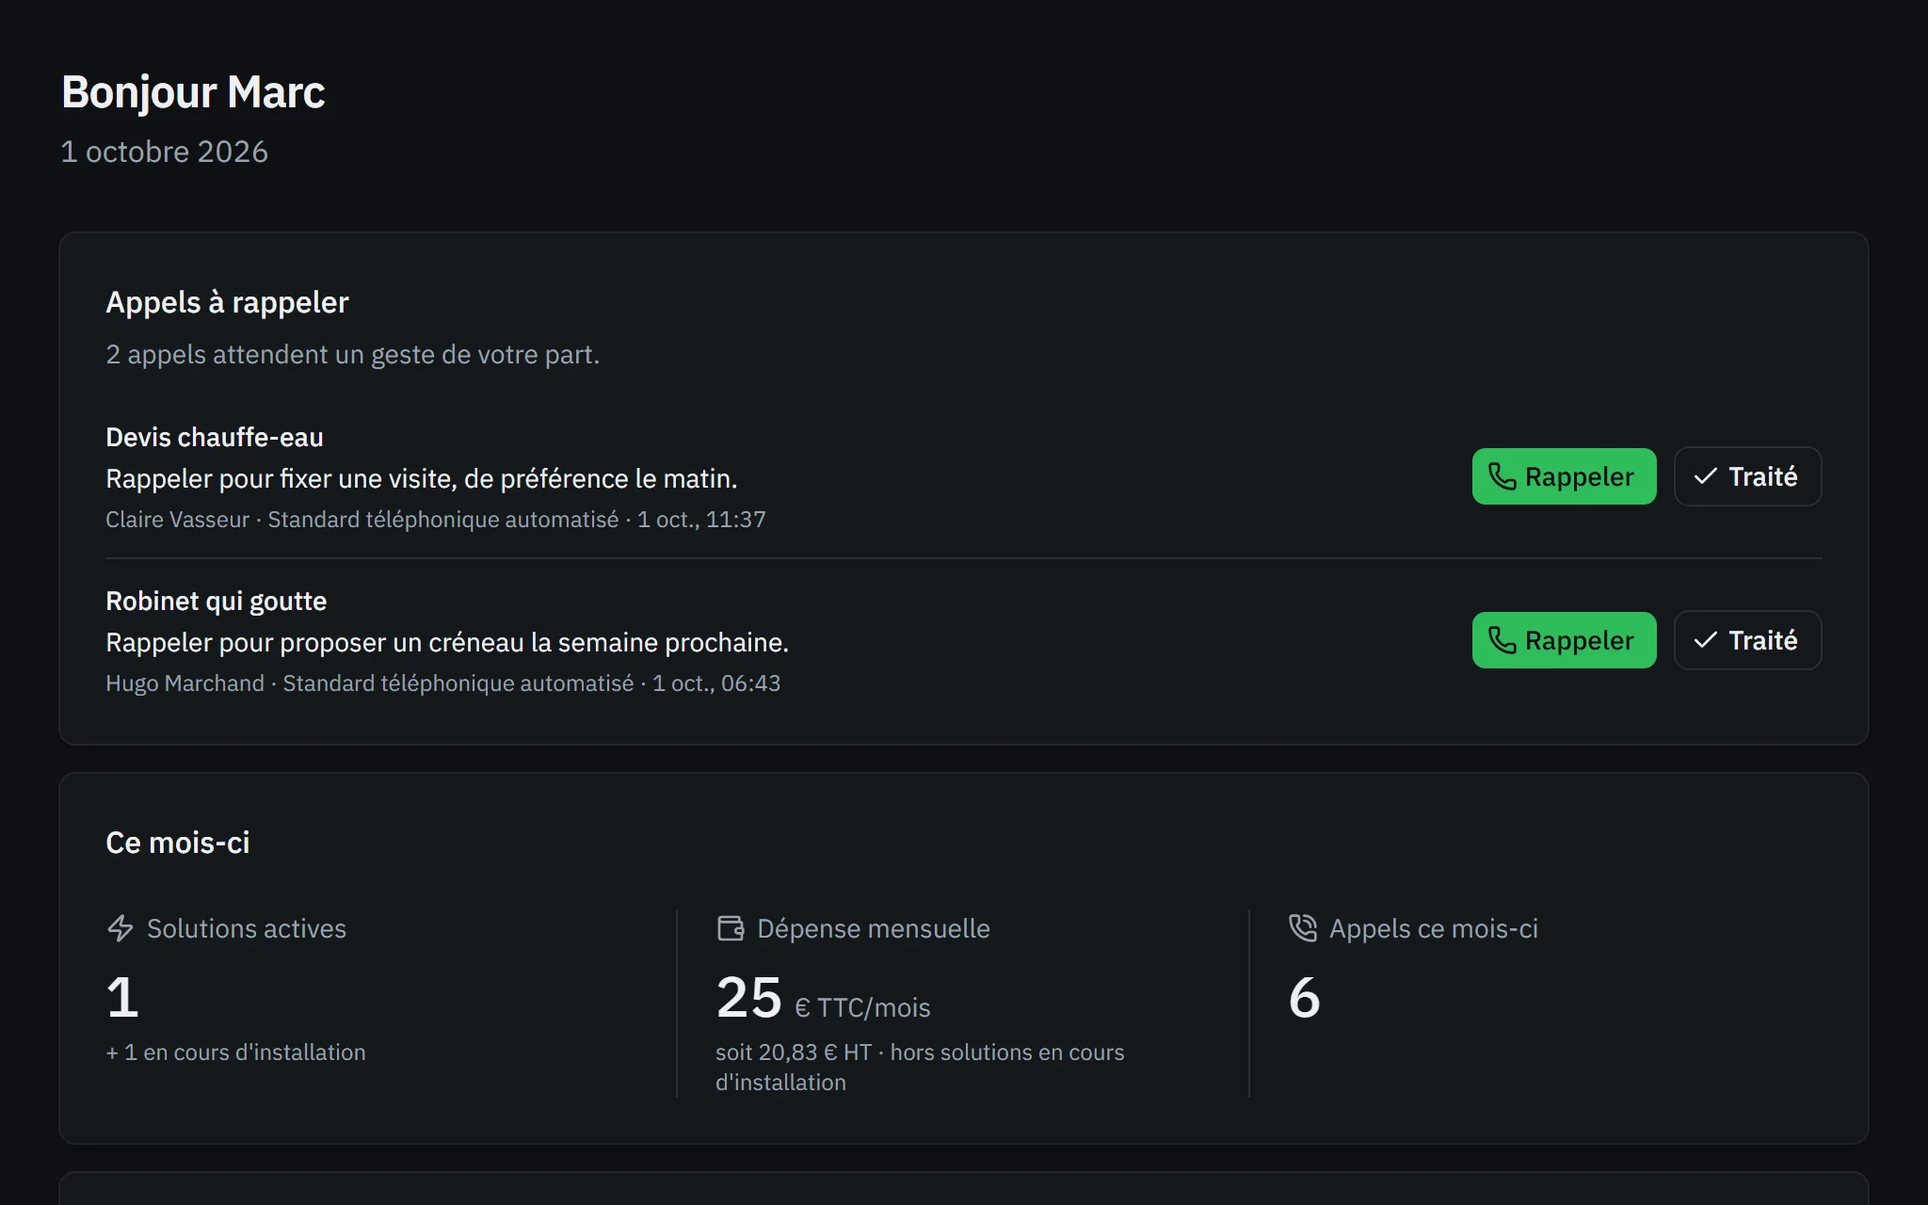
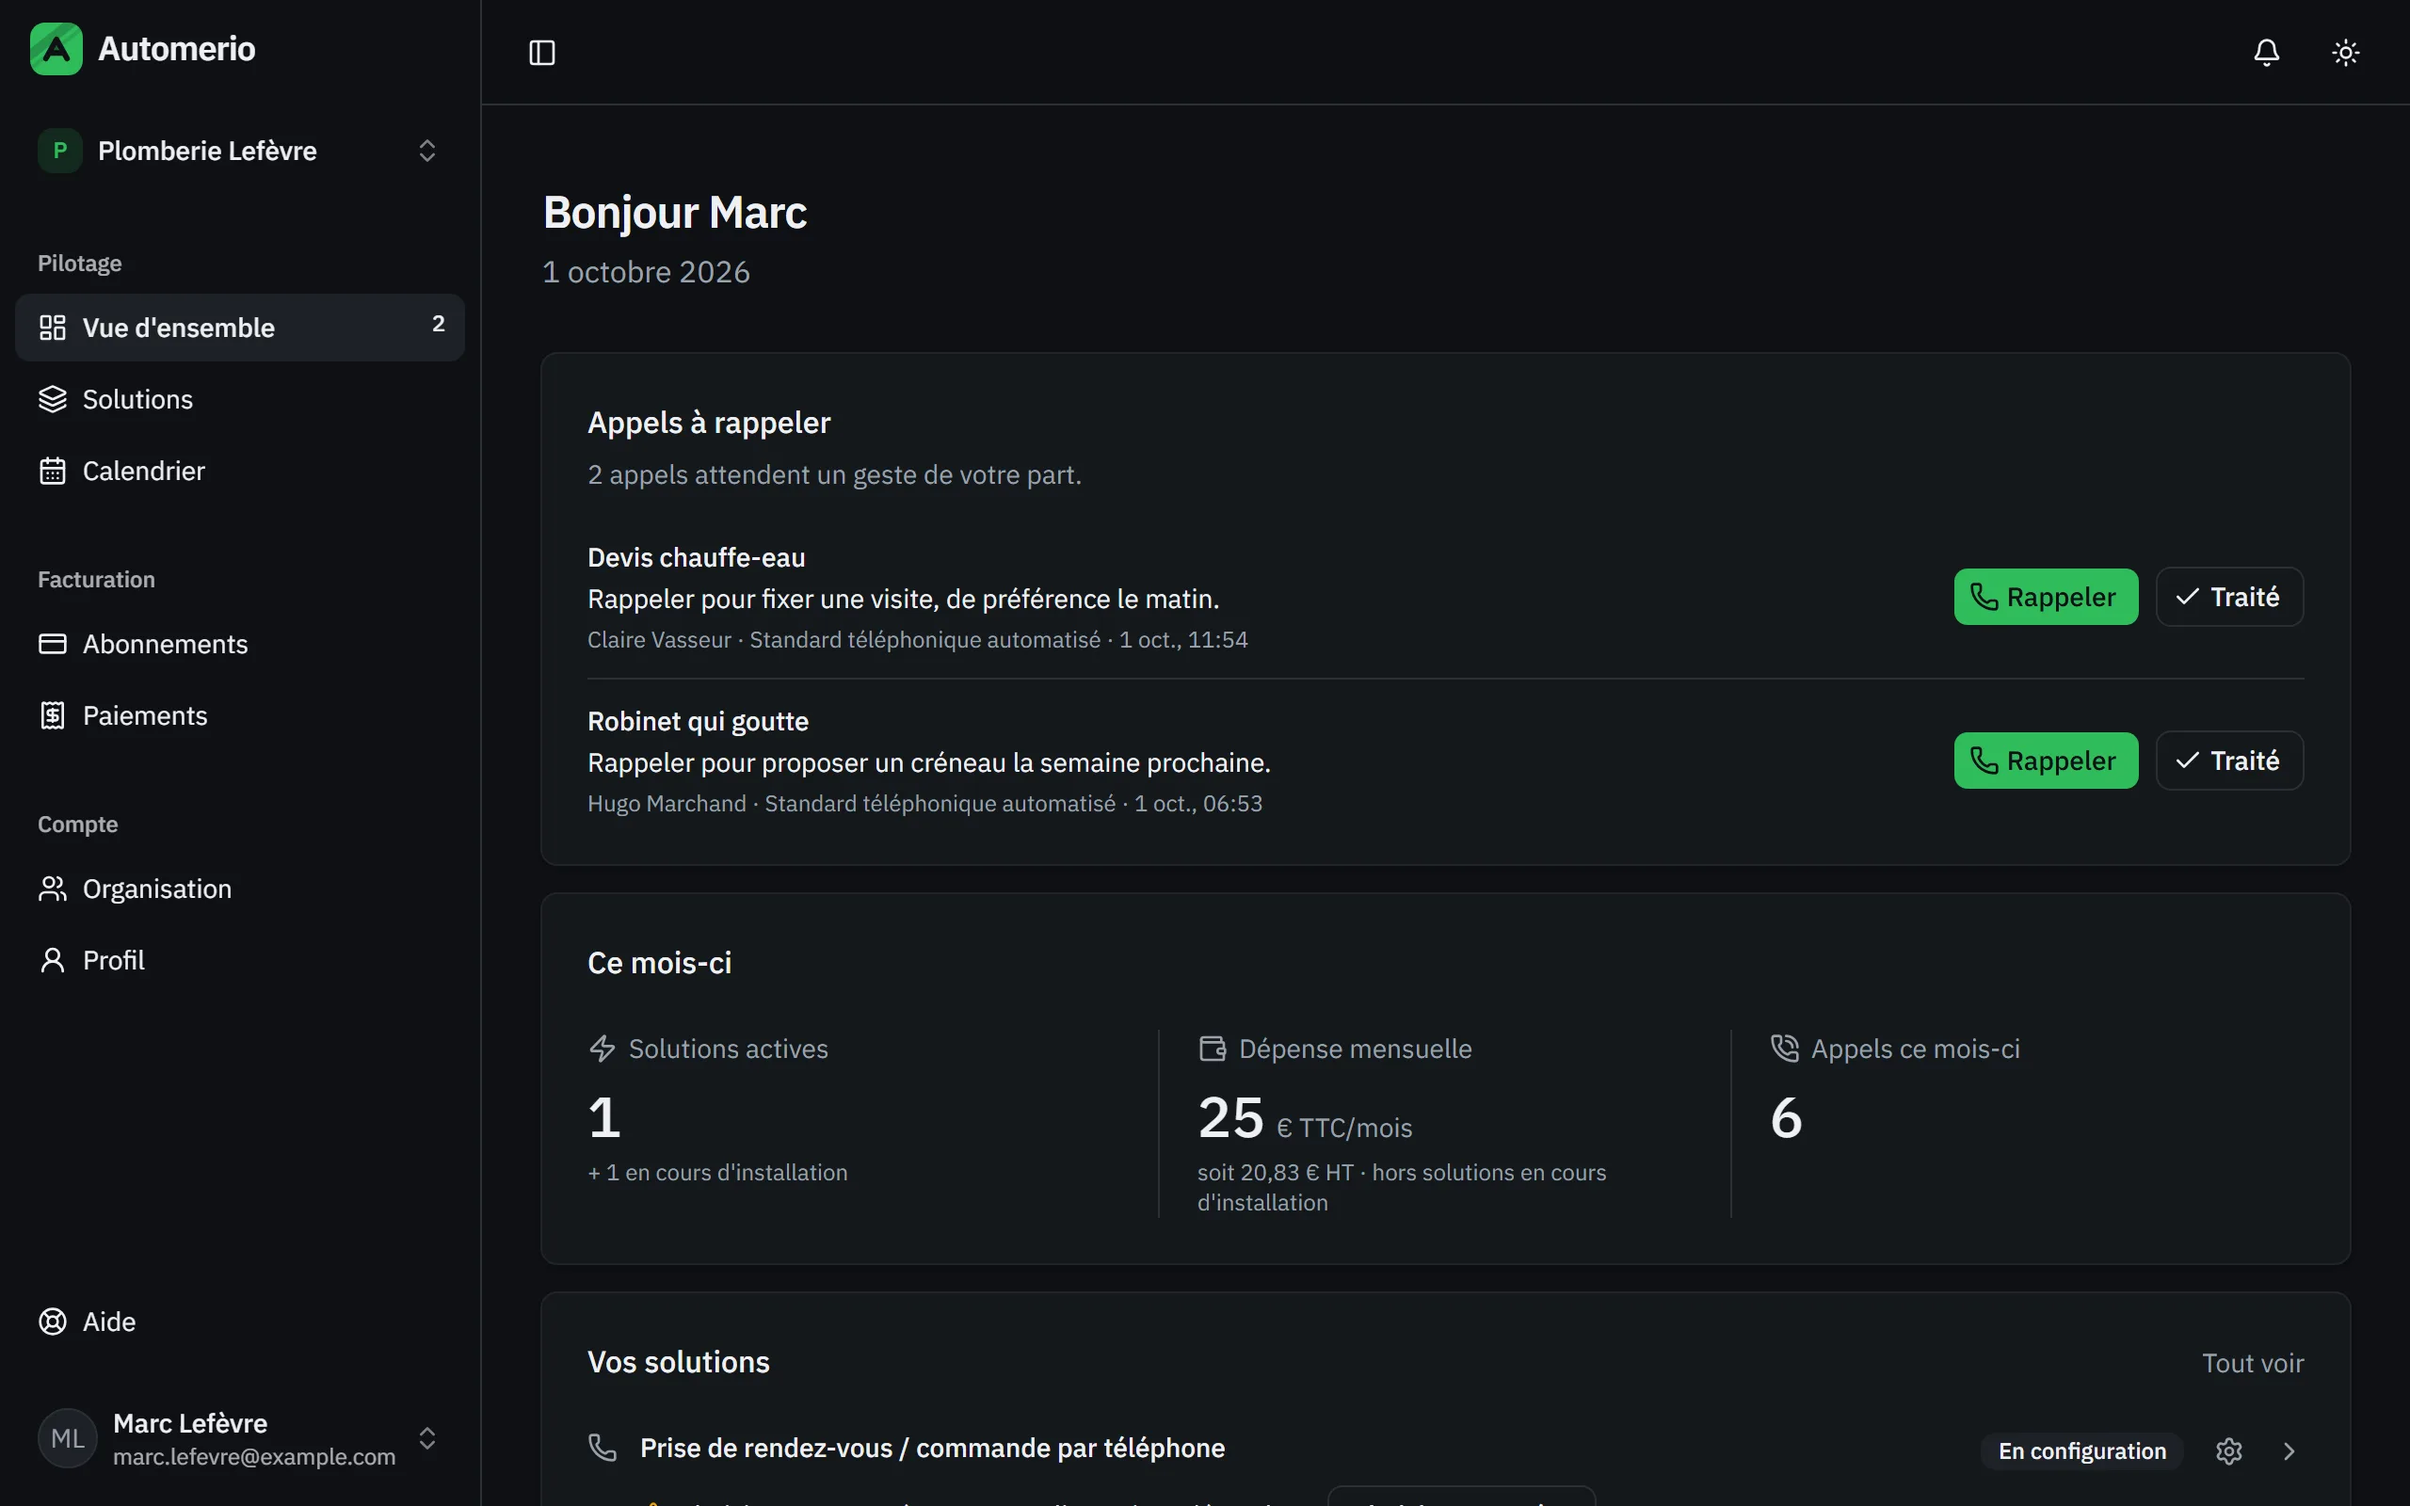
Montrer l'application entière dans la capture du hero
- La vue d'ensemble est capturée avec la barre latérale (1280 x 800)
- L'indicateur de développement de Next est masqué pendant les captures
- Toutes les captures refaites

Claude-Session: https://claude.ai/code/session_014jct95eHCKRgJfxKjhudev

diff --git a/scripts/capture-screenshots.ts b/scripts/capture-screenshots.ts
@@ -213,6 +213,8 @@ async function capture(
     await page.evaluate((value) => localStorage.setItem("theme", value), theme);
     await page.goto(`${BASE_URL}${path}`);
     await page.waitForLoadState("networkidle");
+    // Masque l'indicateur de développement de Next (« N », « Compiling »).
+    await page.addStyleTag({ content: "nextjs-portal { display: none !important; }" });
     await page.waitForTimeout(800);
     if (target.prepare) {
       await target.prepare(page);
@@ -246,7 +248,8 @@ async function main() {
   await page.getByRole("button", { name: "Se connecter" }).click();
   await page.waitForURL("**/dashboard");
 
-  await capture(page, "/dashboard", "dashboard-overview", { clip: { x: 256, y: 64, width: 1024, height: 640 } });
+  // Le hero montre l'application entière, barre latérale comprise.
+  await capture(page, "/dashboard", "dashboard-overview", { clip: { x: 0, y: 0, width: 1280, height: 800 } });
   await capture(page, `/dashboard/services/${clientServiceId}`, "dashboard-calls", { cardHeading: "Appels reçus" });
   await capture(page, "/dashboard/calendar", "dashboard-calendar", {
     clip: { x: 256, y: 64, width: 1024, height: 640 },

diff --git a/src/app/[locale]/home-sections/hero-section.tsx b/src/app/[locale]/home-sections/hero-section.tsx
@@ -126,8 +126,8 @@ export async function HeroSection({ services }: { services: ServiceDTO[] }) {
       <div className="relative mx-auto max-w-6xl px-4 pb-16 sm:px-6 sm:pb-24">
         <ProductScreenshot
           name="dashboard-overview"
-          width={1024}
-          height={640}
+          width={1280}
+          height={800}
           alt={tShots("overviewAlt")}
           caption={tShots("demoCaption")}
           sizes="(min-width: 1152px) 1104px, 100vw"
